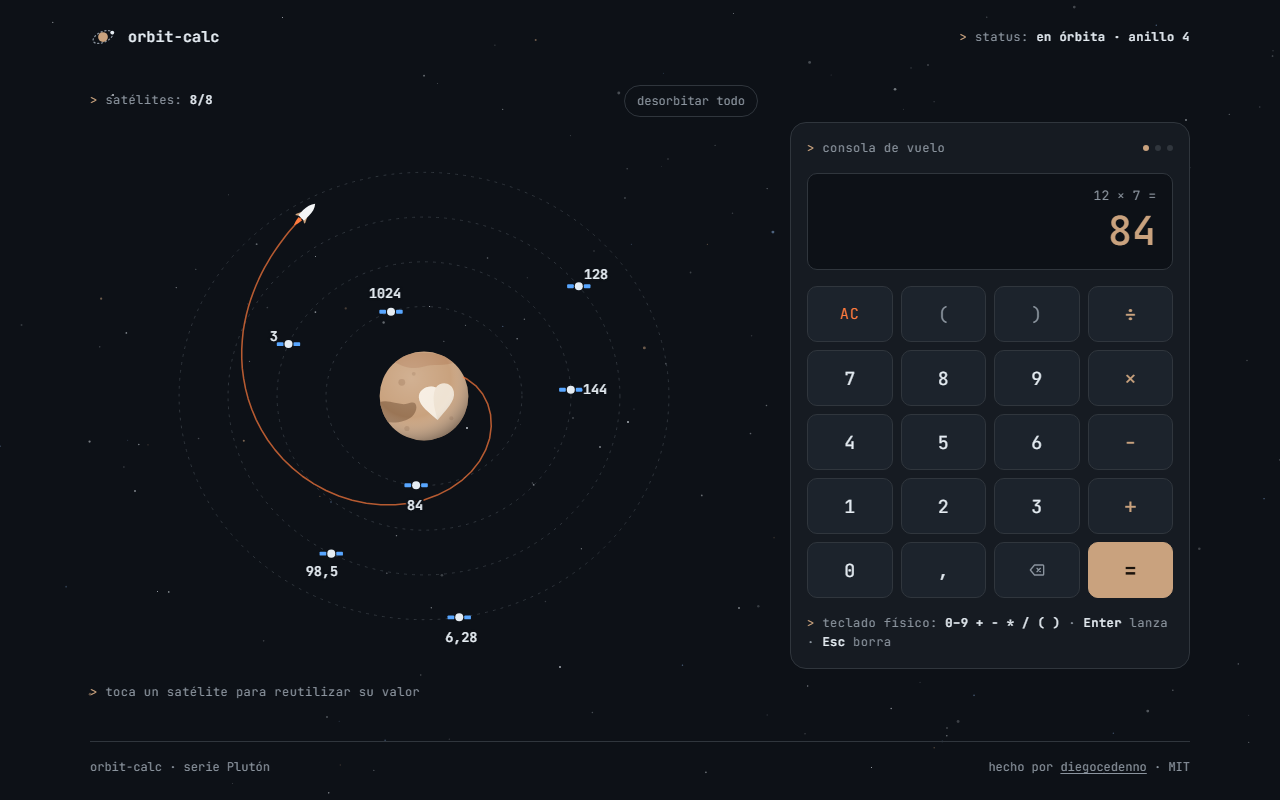
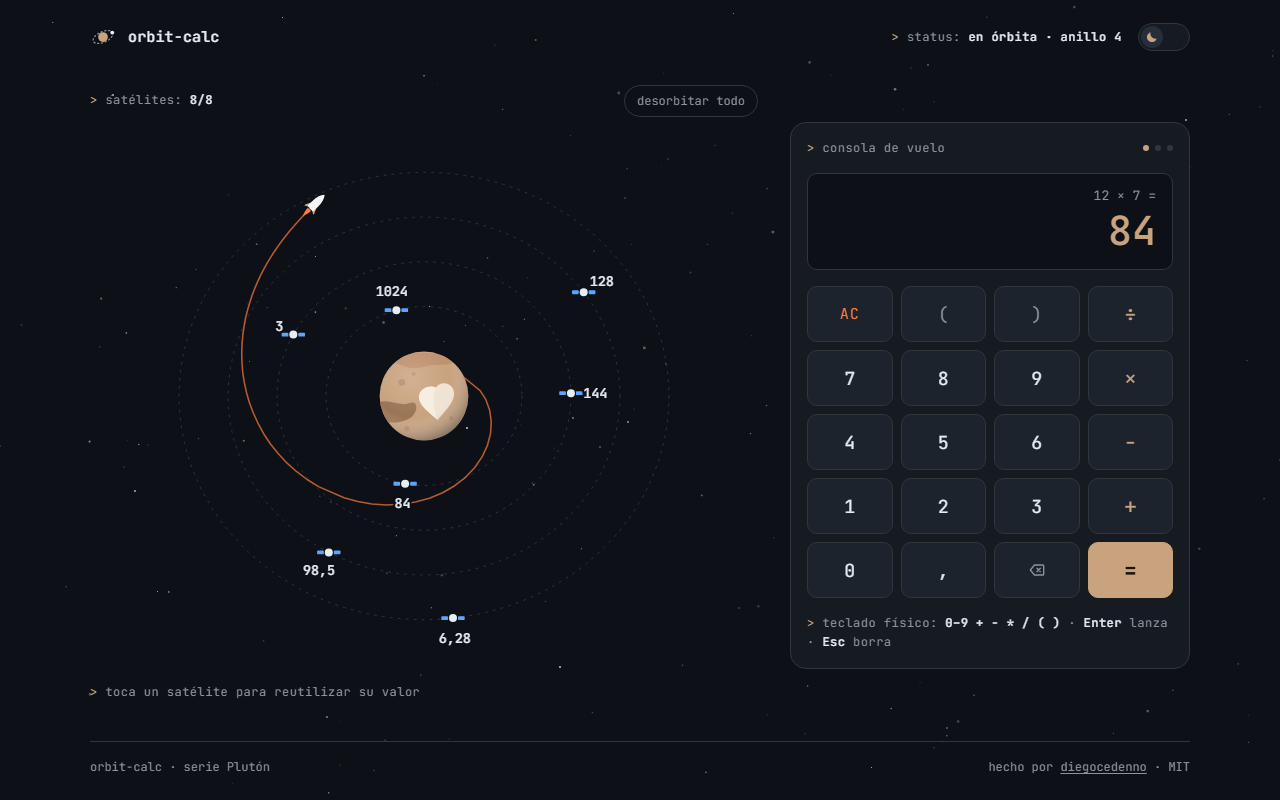
docs: mention the theme switch and refresh previews

diff --git a/README.md b/README.md
@@ -20,6 +20,7 @@
 - The result lifts off from Pluto on a small rocket, spirals outward and settles into one of four dashed orbits.
 - Up to eight results stay in orbit as your history. Tap one — or focus it with `Tab` and press `Enter` — to drop its value back into the current expression.
 - History survives a reload (`localStorage`).
+- A switch in the header flips between dark and light mode: the same sky redrawn as a star chart on paper. The choice is remembered and shared across the Plutón series.
 
 ### What makes it technically interesting
 
@@ -60,6 +61,7 @@ It also works as-is on GitHub Pages.
 - El resultado despega de Plutón en un pequeño cohete, sale en espiral y se asienta en una de cuatro órbitas punteadas.
 - Hasta ocho resultados quedan en órbita como historial. Toca uno —o enfócalo con `Tab` y pulsa `Enter`— para devolver su valor a la expresión en curso.
 - El historial sobrevive a una recarga (`localStorage`).
+- Un interruptor en la cabecera alterna entre modo oscuro y claro: el mismo cielo redibujado como carta estelar sobre papel. La elección se recuerda y se comparte entre los proyectos de la serie Plutón.
 
 ### Qué lo hace interesante técnicamente
 
